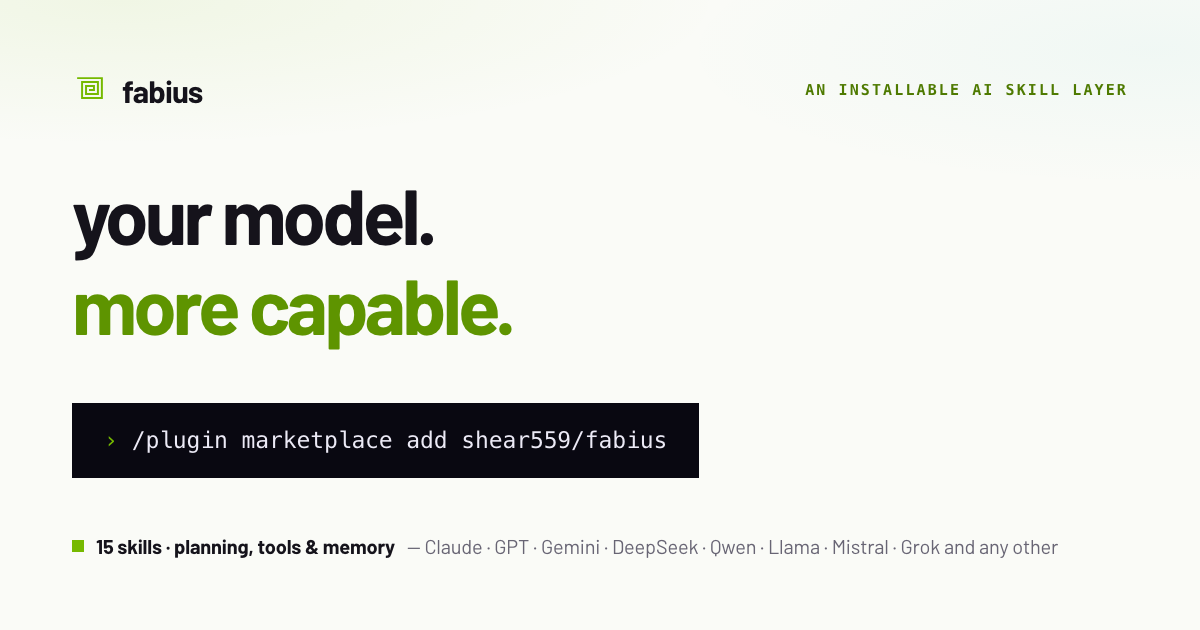
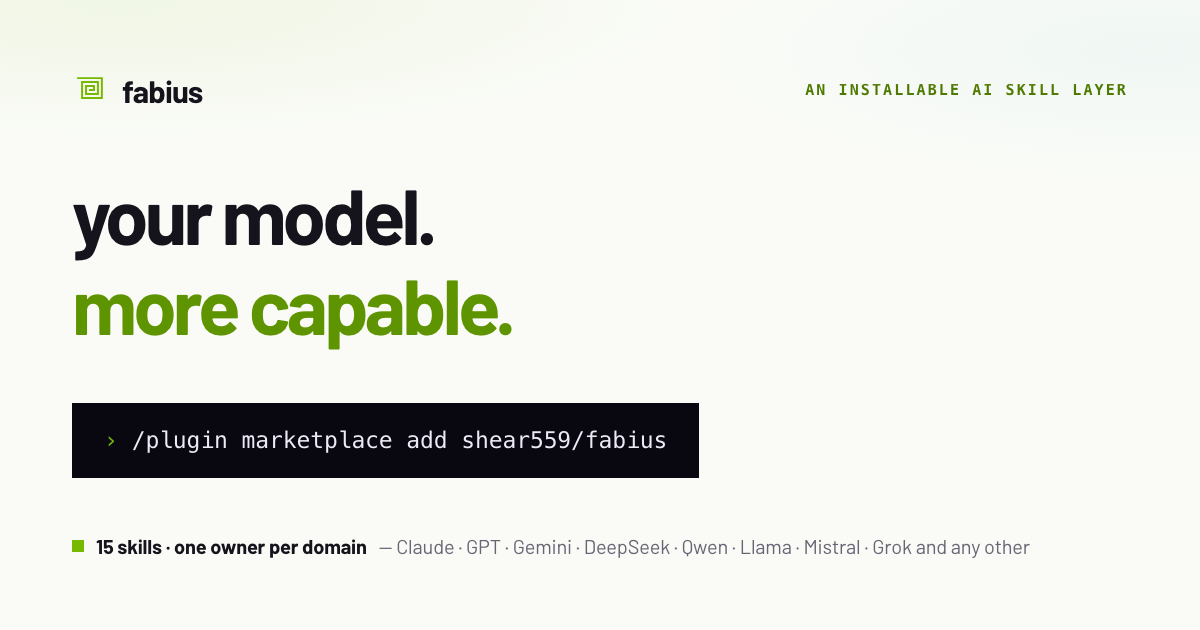
Lead the hero with the fifteen layers, not with media output
The capabilities section was rebalanced in 653f54a, but the hero — the first
thing anyone reads — still opened on "connected tools to create images, videos
and automations" and then asserted "Fifteen coordinated skills" without saying
what they are, closing on the hedge "working toward better results".

- hero-sub now carries the actual shape: fifteen skills, one owner per domain,
  and a router that loads only what the task needs. No media list, no hedge.
- The hero field card reads "1 router · 1 lean core · 13 specialists" instead of
  "15 skills · planning, tools & memory" — the same split the roster and the
  system map use.
- meta description, og:description, twitter:description, the JSON-LD
  SoftwareApplication description and site.webmanifest follow the same line
  (151 chars, inside the truncation budget).
- assets/og.png re-rendered: its footer mirrored the old field-card wording, so
  leaving it would have put the retired line back into every social unfurl.
  ?v= -> 2026-09-07a on all three references, as /assets/* is immutable.

Verified in Chromium and WebKit at 1440/768/390: 0 console errors, 0 overflow,
0 stuck reveals, 15 roster entries, FAQ parity 13/13 word-for-word.

Changed region(s): [[0.1542, 0.8444, 0.8942, 0.9048]]

diff --git a/index.html b/index.html
@@ -4,7 +4,7 @@
 <meta charset="utf-8" />
 <meta name="viewport" content="width=device-width, initial-scale=1, viewport-fit=cover" />
 <title>fabius — a skill layer that makes your AI more capable</title>
-<meta name="description" content="Add an installable skill layer to your AI model: planning, code, research, memory and verification, plus images, video and automation through your tools." />
+<meta name="description" content="Add an installable skill layer to your AI model: fifteen skills, one owner per domain — engineering, design, research, automation, security and memory." />
 <meta name="theme-color" content="#fbfafe" />
 <meta name="robots" content="index, follow, max-image-preview:large, max-snippet:-1" />
 <meta name="author" content="shear559" />
@@ -17,24 +17,24 @@
 <meta property="og:site_name" content="fabius" />
 <meta property="og:locale" content="en_US" />
 <meta property="og:title" content="fabius — a skill layer that makes your AI more capable" />
-<meta property="og:description" content="Add an installable skill layer to your AI model: planning, code, research, memory and verification, plus images, video and automation through your tools." />
+<meta property="og:description" content="Add an installable skill layer to your AI model: fifteen skills, one owner per domain — engineering, design, research, automation, security and memory." />
 <meta property="og:url" content="https://fabius-landing.vercel.app/" />
-<meta property="og:image" content="https://fabius-landing.vercel.app/assets/og.png?v=2026-09-07" />
+<meta property="og:image" content="https://fabius-landing.vercel.app/assets/og.png?v=2026-09-07a" />
 <meta property="og:image:width" content="1200" />
 <meta property="og:image:height" content="630" />
 <meta property="og:image:type" content="image/png" />
 <meta property="og:image:alt" content="fabius wordmark above the line your model, more capable, with the Claude Code install command." />
 <meta name="twitter:card" content="summary_large_image" />
 <meta name="twitter:title" content="fabius — a skill layer that makes your AI more capable" />
-<meta name="twitter:description" content="Add an installable skill layer to your AI model: planning, code, research, memory and verification, plus images, video and automation through your tools." />
-<meta name="twitter:image" content="https://fabius-landing.vercel.app/assets/og.png?v=2026-09-07" />
+<meta name="twitter:description" content="Add an installable skill layer to your AI model: fifteen skills, one owner per domain — engineering, design, research, automation, security and memory." />
+<meta name="twitter:image" content="https://fabius-landing.vercel.app/assets/og.png?v=2026-09-07a" />
 <meta name="twitter:image:alt" content="fabius wordmark above the line your model, more capable, with the Claude Code install command." />
 
 <link rel="preload" href="/assets/barlow-700.woff2" as="font" type="font/woff2" crossorigin />
 <link rel="preload" href="/assets/barlow-400.woff2" as="font" type="font/woff2" crossorigin />
 <link rel="stylesheet" href="/styles.css?v=2026-09-07a" />
 <script type="application/ld+json">
-{"@context":"https://schema.org","@type":"SoftwareApplication","name":"fabius","applicationCategory":"DeveloperApplication","operatingSystem":"Cross-platform","alternateName":"fabius plugin","description":"Add an installable skill layer to your AI model: planning, code, research, memory and verification, plus images, video and automation through your tools. Available through compatible agent environments; execution depends on connected tools and permissions.","url":"https://fabius-landing.vercel.app/","image":"https://fabius-landing.vercel.app/assets/og.png?v=2026-09-07","downloadUrl":"https://github.com/shear559/fabius","installUrl":"https://github.com/shear559/fabius","softwareVersion":"2.7.1","author":{"@type":"Person","name":"shear559","url":"https://github.com/shear559"},"offers":{"@type":"Offer","price":"0","priceCurrency":"USD","description":"Free to install for personal use; proprietary licence."},"featureList":["Installable, model-agnostic AI skill layer","15 coordinated public skills","Planning and capability-first routing","Code development, debugging and verification","Video workflows using connected or local media tools","Images, websites, decks and data visualization","Automation through configured APIs and MCP tools","Permissioned project memory and source-grounded research","Agent orchestration and multi-model review with model access"]}
+{"@context":"https://schema.org","@type":"SoftwareApplication","name":"fabius","applicationCategory":"DeveloperApplication","operatingSystem":"Cross-platform","alternateName":"fabius plugin","description":"Add an installable skill layer to your AI model: fifteen skills, one owner per domain — engineering, design, research, automation, security and memory. Available through compatible agent environments; execution depends on connected tools and permissions.","url":"https://fabius-landing.vercel.app/","image":"https://fabius-landing.vercel.app/assets/og.png?v=2026-09-07a","downloadUrl":"https://github.com/shear559/fabius","installUrl":"https://github.com/shear559/fabius","softwareVersion":"2.7.1","author":{"@type":"Person","name":"shear559","url":"https://github.com/shear559"},"offers":{"@type":"Offer","price":"0","priceCurrency":"USD","description":"Free to install for personal use; proprietary licence."},"featureList":["Installable, model-agnostic AI skill layer","15 coordinated public skills","Planning and capability-first routing","Code development, debugging and verification","Video workflows using connected or local media tools","Images, websites, decks and data visualization","Automation through configured APIs and MCP tools","Permissioned project memory and source-grounded research","Agent orchestration and multi-model review with model access"]}
 </script>
 <script type="application/ld+json">
 {"@context":"https://schema.org","@type":"FAQPage","mainEntity":[{"@type":"Question","name":"What is fabius?","acceptedAnswer":{"@type":"Answer","text":"fabius is an installable AI skill layer: fifteen coordinated public skills that work above the model you already use. It adds planning, specialist workflows, tool selection, memory practices and verification. Install it in a compatible agent app, then use your chosen model and the tools available in that environment."}},{"@type":"Question","name":"What does it actually improve?","acceptedAnswer":{"@type":"Answer","text":"fabius is designed to improve how the model approaches and completes a task: clearer scope, relevant specialist knowledge, purposeful tool use, fewer repeated steps and checks before delivery. It changes instructions, process and execution, without retraining the model or changing its weights. The results depend on the model, task and available tools."}},{"@type":"Question","name":"Which models and apps can I use?","acceptedAnswer":{"@type":"Answer","text":"The rules are model-agnostic: they can be passed to an instruction-following model through a compatible host. The repository documents plugin installation for Claude Code, Codex and Grok Build, plus portable core instructions through AGENTS.md. Claude, GPT, Gemini and open models are examples. Full execution requires a host that can load the relevant skills and expose the necessary tools; a model name alone does not establish that support."}},{"@type":"Question","name":"Can fabius create and combine videos?","acceptedAnswer":{"@type":"Answer","text":"It includes guidance for video production, including scripts, asset generation, editing and composition. With suitable tools available, the agent can turn a brief into a video workflow, use a connected generator, and combine clips, captions, sound and transitions through tools such as FFmpeg, Remotion or HyperFrames. The media tools are separate installations or services; fabius itself is not a video-generation model. Paid APIs require your own access and may add costs."}},{"@type":"Question","name":"Are external tools included in the install?","acceptedAnswer":{"@type":"Answer","text":"The install includes the skill files and their reference material. External services are connected separately through your agent app, APIs, MCP servers or local tools. Media generation, live automations, external data and multi-model review need the relevant tools, permissions and sometimes paid accounts. The core planning and workflow guidance can be used without these connections."}},{"@type":"Question","name":"How do I install it?","acceptedAnswer":{"@type":"Answer","text":"In Claude Code: /plugin marketplace add shear559/fabius, then /plugin install fabius@fabius, then /reload-plugins. For Codex and Grok Build, use the repository-documented steps in the install tabs. Other compatible tools can load the portable AGENTS.md rules at the path they support. Access to the full specialist files and relevant tools is needed for the corresponding specialist workflows."}},{"@type":"Question","name":"Does it need a server or a new account?","acceptedAnswer":{"@type":"Answer","text":"The core skill layer runs inside your existing agent app and needs no separate fabius server or account. Your chosen model and any external tools handle their own processing and data access. The repository also includes an optional local Node runner for using the same rules through your own model API access."}},{"@type":"Question","name":"Can it remember my projects?","acceptedAnswer":{"@type":"Answer","text":"The memory skill defines a project knowledge base, an index and an append-only log for approved decisions and sources. Cross-session recall requires persistent storage and the appropriate file access, host memory or configured hooks. It reuses relevant context when permitted, while allowing fresh-context review when that is needed."}},{"@type":"Question","name":"Can it run without an agent app?","acceptedAnswer":{"@type":"Answer","text":"The repository includes an optional zero-dependency Node runner for the same rule files. It uses your own model access, and its boundaries are explicit: read-only until you pass --act, the working directory is a jail it cannot escape, secrets such as .ssh, .aws, .env and *.pem sit on a deny-list no flag overrides, and irreversible commands — rm -rf, git push, a production deploy — carry an additional hold. See runtime/README.md in the repository for current commands, supported execution paths and setup requirements."}},{"@type":"Question","name":"Is it free? Is the source public?","acceptedAnswer":{"@type":"Answer","text":"The repository is public and the licence grants free installation for personal use. It is proprietary: redistribution, modification and commercial use require permission under the licence. Your model, API calls, connected services and computing resources may have separate costs. The repository provides seals and a verification script for checking the published skill contracts."}},{"@type":"Question","name":"How is the improvement evaluated?","acceptedAnswer":{"@type":"Answer","text":"The repository compares model-only runs with fabius-guided runs, including a generic concise-instruction control and a separate memory evaluation. Its dated results include gains, ties and regressions. In the July 1, 2026 four-model quality panel, three tiers improved and all four produced shorter output. Against the generic “be concise” control — the harder test, since beating a bare model is easy — fabius wins on Fable 5, Sonnet 5 and Opus 4.8 on 20–34% less output; Haiku 4.5 is the printed exception, where the control scores higher. BENCHMARKS.md distinguishes executed checks from model-graded scores and documents missing historical artifacts. These results do not guarantee improvement on every model or task."}},{"@type":"Question","name":"Who chooses the tools and the amount of research?","acceptedAnswer":{"@type":"Answer","text":"You set the goal. fabius guides the model to identify the required capability, choose among tools actually available in the host, and spend more effort only when it is expected to help. Its workflow distinguishes reading, analysis, drafting, writing and execution; actions remain subject to your permissions and the controls of the environment."}},{"@type":"Question","name":"Can it clean AI marks off my content?","acceptedAnswer":{"@type":"Answer","text":"For content you own, the repository includes guidance for removing specified invisible Unicode characters or file metadata using appropriate tools. This requires those tools and your authorization. It does not establish that content is human-written or guarantee that a watermark or AI detector will fail."}}]}
@@ -122,8 +122,8 @@
     </h1>
     <p class="hero-sub">
       <strong>Add a layer of skills to the AI model you already use.</strong>
-      fabius helps it plan, build, research and verify — and use connected tools to create images, videos and automations.
-      Fifteen coordinated skills, working toward better results with less wasted effort.
+      Fifteen of them — one owner per domain, from engineering and design to research, automation, security and memory —
+      and a router that loads only the ones your task actually needs.
     </p>
     <p class="hero-compat">Claude, GPT, Gemini and open models — through a compatible agent app. The model stays yours; fabius improves how it works.</p>
     <div class="hero-actions">
@@ -146,7 +146,7 @@
       <div class="field-top">
         <span class="field-rules">
           <span class="field-mark"><svg aria-hidden="true"><use href="#emblem"/></svg></span>
-          <span class="field-copy"><small>your skill layer</small><b>fabius</b><em>15 skills · planning, tools &amp; memory</em></span>
+          <span class="field-copy"><small>your skill layer</small><b>fabius</b><em>1 router · 1 lean core · 13 specialists</em></span>
         </span>
         <ul class="field-contract" aria-label="The work the skill layer helps coordinate">
           <li>plan</li><li>build</li><li>create</li><li>connect</li><li>verify</li><li>remember</li>
